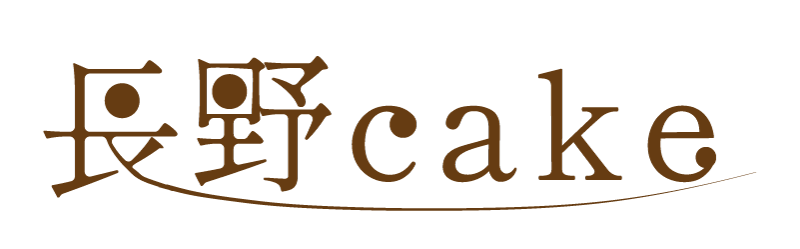
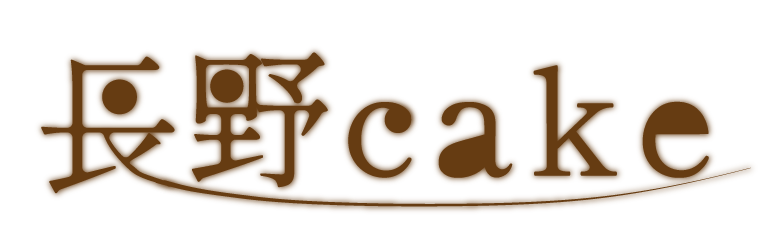
[add]フッター追加　ロゴの微調整

Changed region(s): [[0.03, 0.1968, 0.9909, 0.8715]]

diff --git a/app/assets/stylesheets/footer.css b/app/assets/stylesheets/footer.css
@@ -1,12 +1,8 @@
-* {
-  padding:0;
-  margin:0;
-}
 
 .footer2 {
   padding:0;
   margin:0;
-  background-image: url("assets/ECサイトヘッダー.png");
+  background-image: url("assets/ECサイトフッター.png");
   background-size: cover;
-  height:300px;
+  height:200px;
 }
